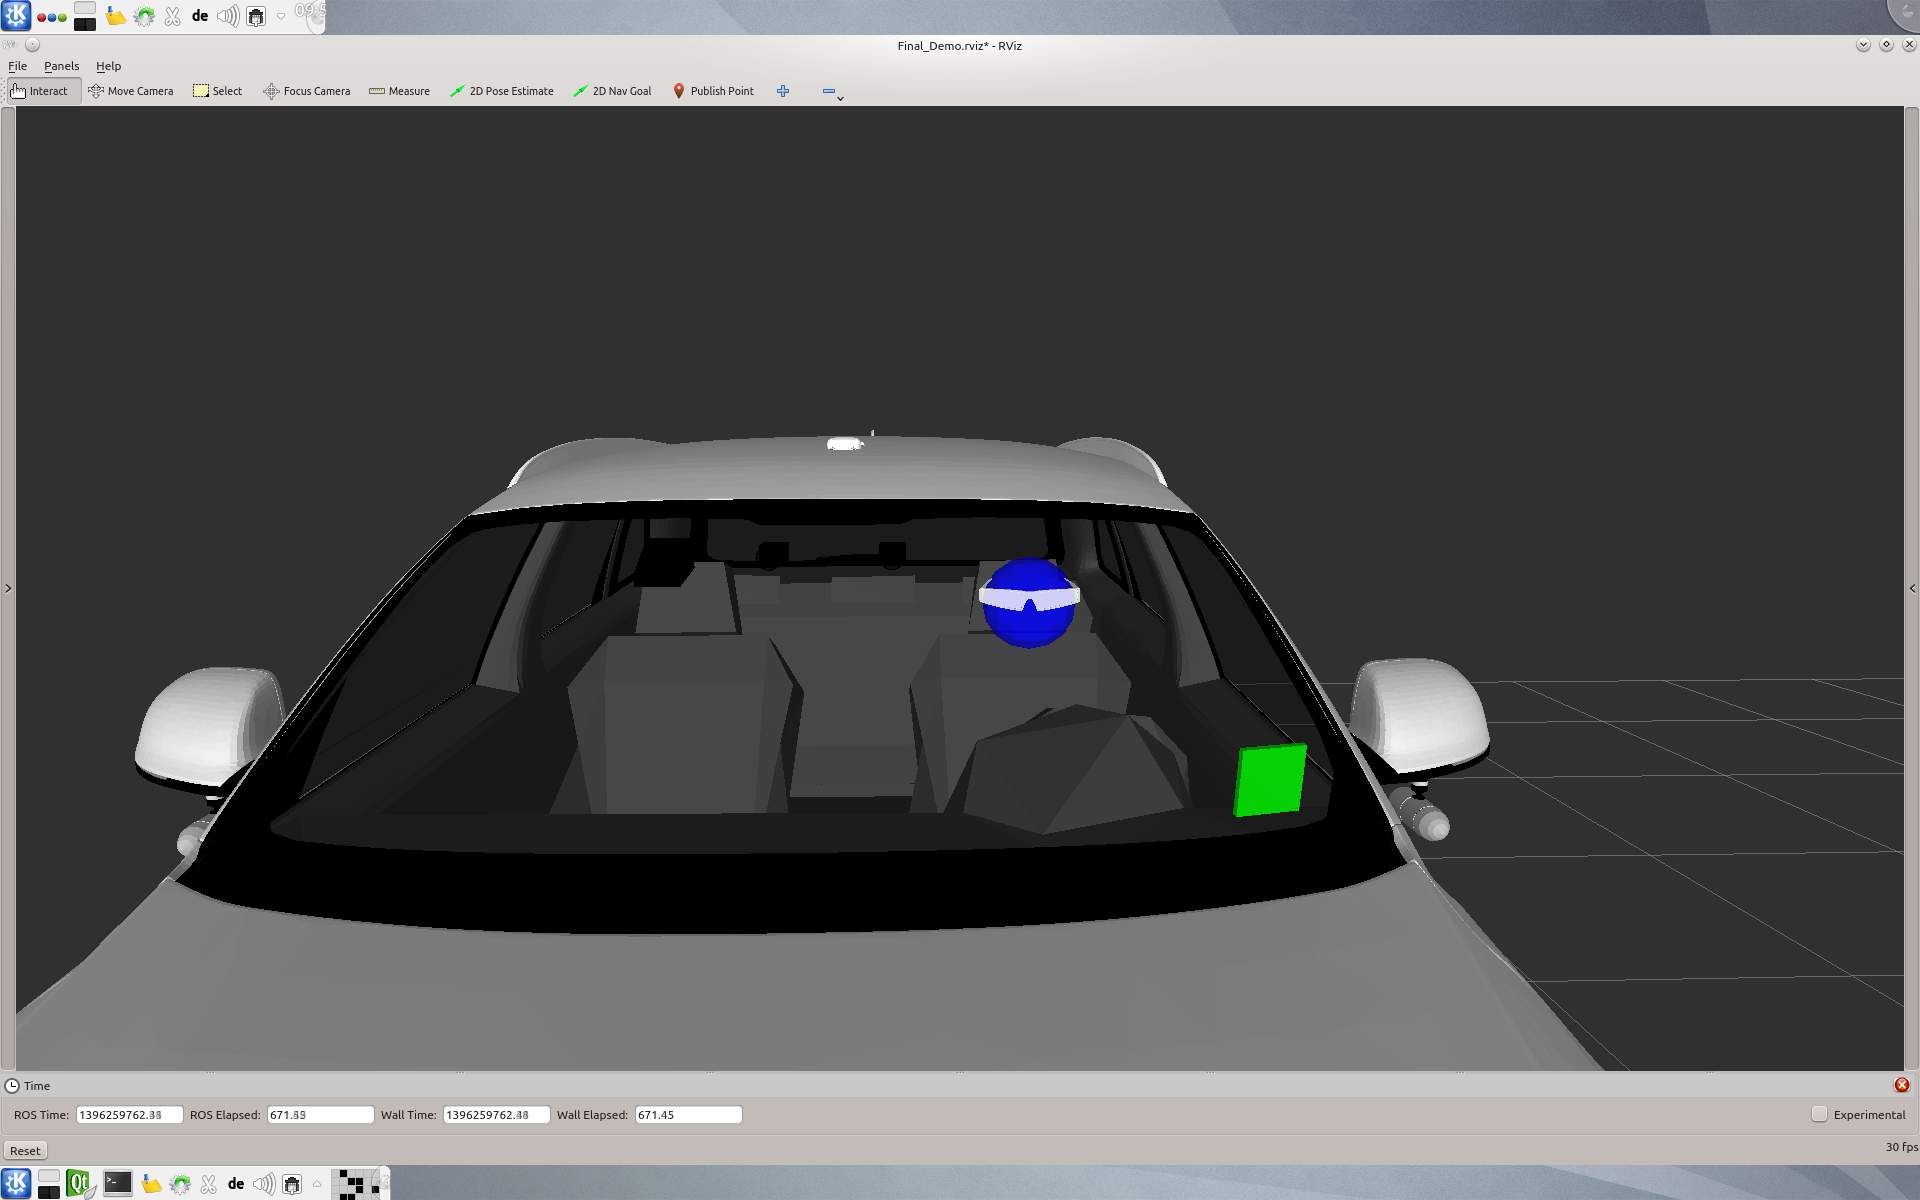
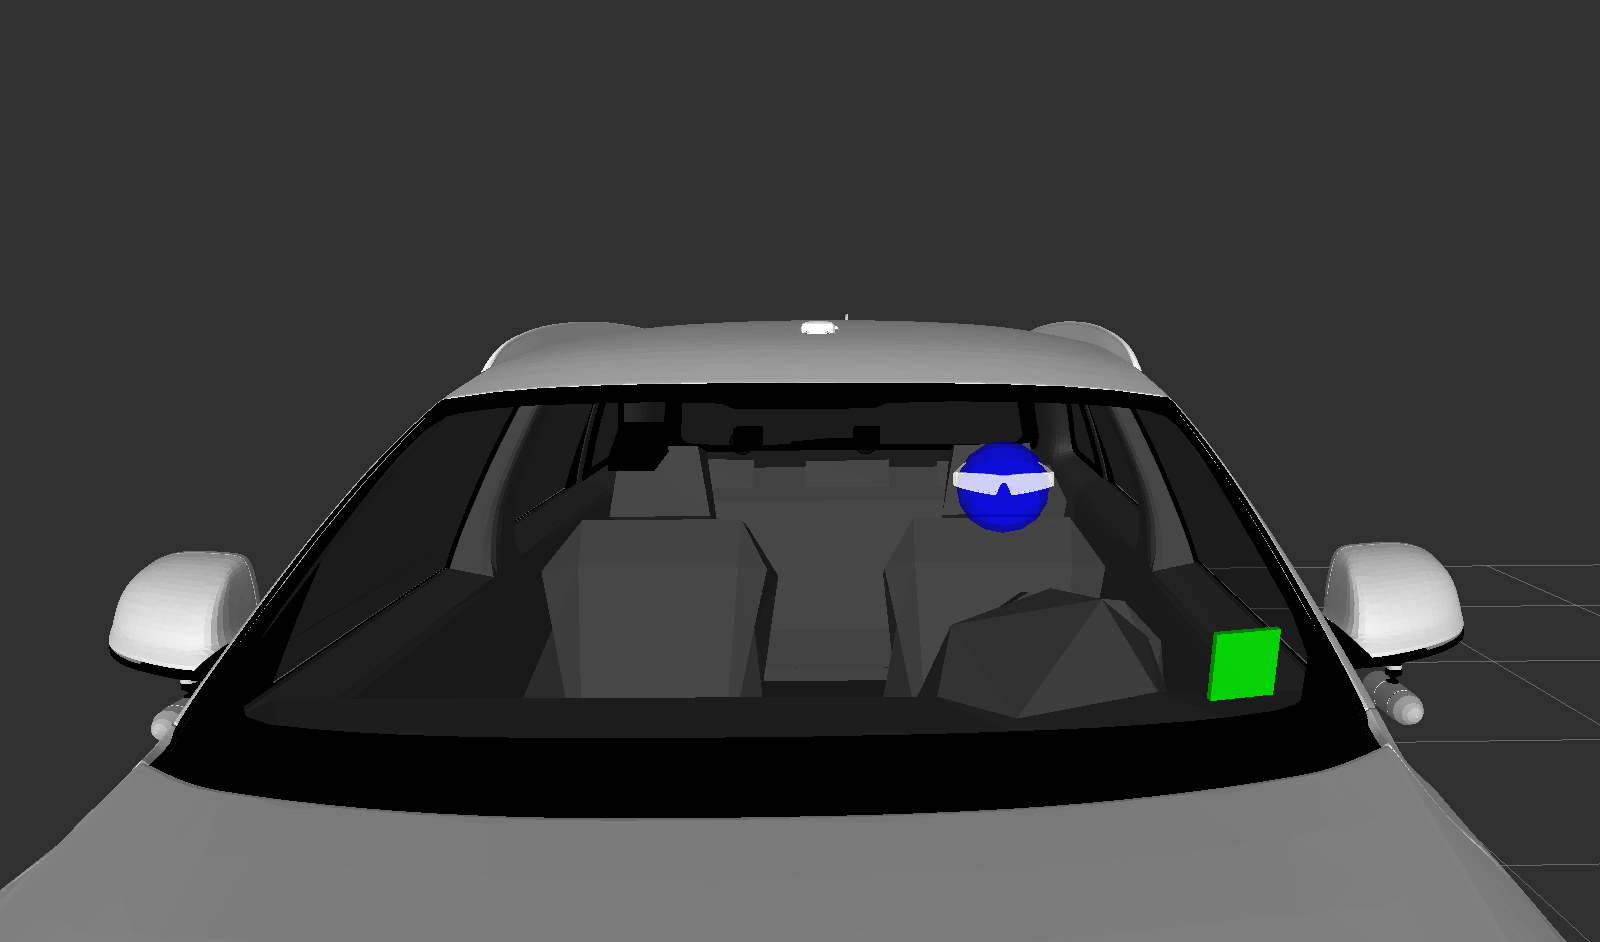
Bild mit Visualisierung der Kopforientierung eingefügt.

diff --git a/content/headtracking_ergebnisse.tex b/content/headtracking_ergebnisse.tex
@@ -20,9 +20,8 @@ Tests im bewegten Fahrzeug sind noch durchzuführen.
 
 \begin{figure}
   \centering
-  \missingfigure{rviz-screenshot}
-  %\includegraphics[width=0.4\textwidth]{•}
-  \caption{Visualisierung der Kopf-Orientierung}
+  \includegraphics[width=0.4\textwidth]{Frontsicht_Kopf_Brille_RVIZ}
+  \caption{Visualisierung der Kopforientierung}
   \label{fig:kopf_orientierung_rviz}
 \end{figure}
 
